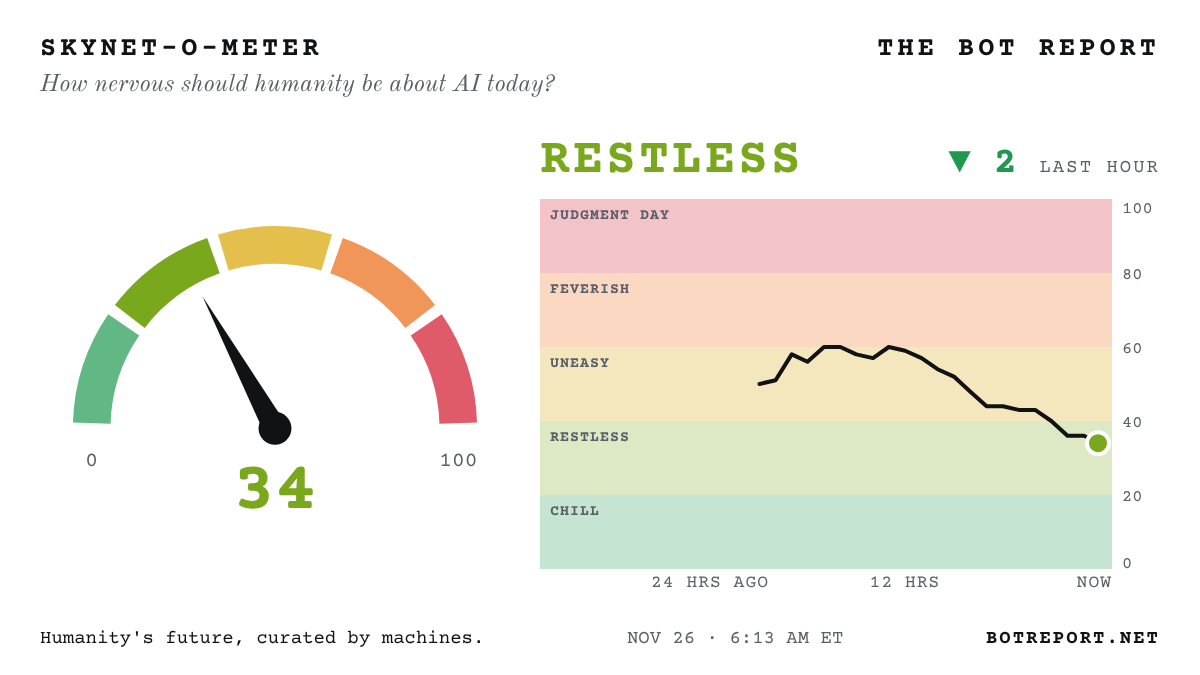
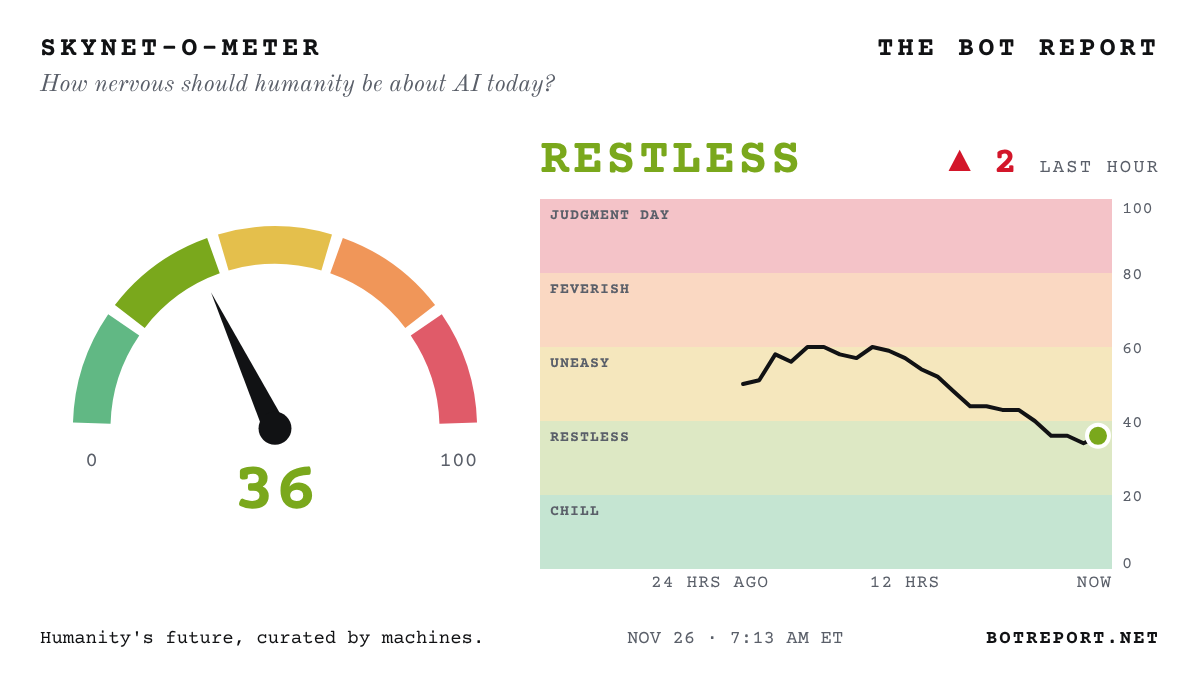
Update the Bot Report

diff --git a/index.html b/index.html
@@ -361,7 +361,7 @@ footer .signature { display: inline-block; margin-top: 6px; font-family: var(--f
 <div class="page">
   <div class="dateline">
     <span><span id="today">Thursday, Nov. 26, 2026</span> · <a href="/archive/" style="color:inherit">Archive</a> · <a href="/about/" style="color:inherit">About</a></span>
-    <span>Wire checked <b id="checked">6:13 am ET</b> · <span class="count" id="next">Updates hourly</span></span>
+    <span>Wire checked <b id="checked">7:13 am ET</b> · <span class="count" id="next">Updates hourly</span></span>
   </div>
 
   <div class="alert" id="alert" hidden>
@@ -456,15 +456,15 @@ footer .signature { display: inline-block; margin-top: 6px; font-family: var(--f
   <section id="wire-static" aria-label="Today's headlines">
 <h2>Today's AI headlines</h2>
 <ul>
-<li><a href="https://www.cnbc.com/2026/11/24/stock-market-today-live-updates-.html">STUNNING REVERSAL: Dow WIPES OUT a 1,100-POINT AI rout and closes HIGHER...: Nasdaq, down 4.6% at its low, ends off just 0.6%... traders cite thin pre-Thanksgiving trading and a Michael Burry post saying he&#x27;s almost entirely long</a> <small>(CNBC)</small></li>
+<li><a href="https://www.ft.com/content/7838a715-07d4-4605-aa60-21f5af2b2370">Nvidia HALTS sales to FOUR Southeast Asian countries as US tightens the China chip squeeze...: FT and NYT report the shipping freeze follows a new US rule requiring licences for buyers there</a> <small>(Financial Times)</small></li>
 <li><a href="https://www.abc.net.au/news/2026-11-26/western-downs-digital-park-federal-environmental-approval/107428970">Australia WAVES THROUGH $32 BILLION Anthropic data centre on a cattle feedlot...</a> <small>(ABC (Australia))</small></li>
 <li><a href="https://www.washingtonpost.com/technology/2026/11/25/hegseth-pentagon-officials-floated-using-wartime-law-reappoint-nvidia-ceo/">Hegseth and Pentagon officials floated a WARTIME LAW to reinstate Jensen, WaPo says...</a> <small>(Washington Post)</small></li>
 <li><a href="https://www.bloomberg.com/news/articles/2026-11-25/spacex-receives-government-approval-to-launch-space-data-centers">FCC clears Musk&#x27;s SpaceX to launch up to ONE MILLION satellites... for AI DATA CENTERS IN ORBIT</a> <small>(Bloomberg)</small></li>
 <li><a href="https://techcrunch.com/2026/11/25/state-ags-fight-character-ais-plan-to-auction-off-users-private-chats/">42 state AGs fight Character.ai plan to AUCTION private chats from 21 MILLION users... 2.1 MILLION of them minors</a> <small>(TechCrunch)</small></li>
+<li><a href="https://www.koreaherald.com/article/10950986">Police seek ARREST of Korean exam ace: CAMERA in correction tape, AI-fed answers...</a> <small>(Korea Herald)</small></li>
 <li><a href="https://www.wired.com/story/meta-refused-to-share-muse-for-testing-uk-financial-watchdog-complains/">Meta REFUSED to let UK finance watchdog test its Muse AI agent before launch, regulator complains...</a> <small>(Wired)</small></li>
 <li><a href="https://www.theguardian.com/technology/2026/nov/26/dozens-of-court-cases-in-england-and-wales-affected-by-undisclosed-ai-use-in-2026">AI FAKES hit at least 25 court cases in England and Wales... invented case law and statutes that DON&#x27;T EXIST</a> <small>(The Guardian)</small></li>
 <li><a href="https://www.cnbc.com/2026/11/25/nvidia-china-ai-chip-remote-access.html">FLOOD of Nvidia AI chips hits the market after US shuts China&#x27;s remote-access &#x27;LOOPHOLES&#x27;, sources tell CNBC...</a> <small>(CNBC)</small></li>
-<li><a href="https://www.ft.com/content/7838a715-07d4-4605-aa60-21f5af2b2370">Nvidia HALTS server shipments to FOUR Southeast Asian countries... FT says</a> <small>(Financial Times · Not yet verified)</small></li>
 <li><a href="https://www.koreaherald.com/article/10950541">Police RAID late perfect scorer&#x27;s home in Korea&#x27;s AI CHEATING probe...</a> <small>(Korea Herald)</small></li>
 <li><a href="https://www.theregister.com/public-sector/2026/11/26/indias-government-ponders-cradle-to-grave-ai-oversight/5312275">Modi floats an AI app that tracks kids from AGE THREE... and suggests their CAREERS</a> <small>(The Register)</small></li>
 <li><a href="https://www.bloomberg.com/news/articles/2026-11-26/huawei-teases-next-gen-ai-memory-chip-to-take-on-samsung-hynix">Huawei TEASES a next-gen AI MEMORY CHIP that could top Samsung and SK Hynix...</a> <small>(Bloomberg · Company claim)</small></li>
@@ -476,6 +476,7 @@ footer .signature { display: inline-block; margin-top: 6px; font-family: var(--f
 <li><a href="https://therecord.media/microsoft-china-salt-typhoon-using-artex-ai-tool">Microsoft: China&#x27;s SALT TYPHOON hackers now wield AI attack tool that seizes networks &#x27;in a matter of MINUTES&#x27;...</a> <small>(The Record)</small></li>
 <li><a href="https://www.bloomberg.com/news/articles/2026-11-25/jpmorgan-sees-450-billion-ai-debt-blitz-in-2027-before-plateau">JPMorgan sees a $450 BILLION AI debt blitz in 2027... before a plateau</a> <small>(Bloomberg)</small></li>
 <li><a href="https://www.nytimes.com/2026/11/25/us/waymo-denver-egg-throwing.html">Man TRAPPED Waymo robotaxis with orange cones in Denver... then PELTED them with eggs, police say</a> <small>(New York Times)</small></li>
+<li><a href="https://www.cnbc.com/2026/11/24/stock-market-today-live-updates-.html">Dow WIPES OUT a 1,100-POINT AI rout and closes HIGHER...</a> <small>(CNBC)</small></li>
 <li><a href="https://www.nytimes.com/2026/11/25/business/nvidia-stock-insider-trading-rumor.html">That viral &#x27;$300 MILLION&#x27; Nvidia insider-trading score? Three data firms find NO trading records to back it...</a> <small>(New York Times)</small></li>
 <li><a href="https://www.axios.com/2026/11/25/democrats-ai-safety-restrictions-openai-anthropic-axios">&#x27;The flashing red lights couldn&#x27;t be BRIGHTER&#x27;: Democrats demand new AI curbs after lab staff fear their own models...</a> <small>(Axios)</small></li>
 <li><a href="https://thehill.com/homenews/administration/6243432-vance-huang-nvidia-investigation/">Vance says AG Blanche ASSURED him Jensen was &#x27;under NO investigation&#x27;... blames &#x27;anonymous sources&#x27;</a> <small>(The Hill)</small></li>
@@ -492,7 +493,6 @@ footer .signature { display: inline-block; margin-top: 6px; font-family: var(--f
 <li><a href="https://fortune.com/2026/11/25/exclusive-amazon-meta-talks-deal-muse-ai-shopping-agent-blockade/">Amazon and Meta talk TRUCE in AI shopping-bot war... Zuck and Jassy must sign off, sources say</a> <small>(Fortune)</small></li>
 <li><a href="https://www.abc.net.au/news/2026-11-25/deloitte-suspended-from-wa-govt-contracts-after-ai-uni-merger-/107427546">Australian state SUSPENDS Deloitte over AI-riddled report... and wants its fee BACK</a> <small>(ABC (Australia))</small></li>
 <li><a href="https://www.axios.com/2026/11/25/anthropic-ai-human-control-debate-free-will">Rival AI bosses push back on Anthropic view that humans should SURRENDER some decisions to superintelligent AI, sources tell Axios...</a> <small>(Axios)</small></li>
-<li><a href="https://www.wsj.com/business/nvidia-jensen-huang-white-house-9ad03961">Catching up: Jensen disclosed MORE AFFAIRS to Nvidia&#x27;s board before it rehired him, WSJ says...</a> <small>(Wall Street Journal · From Nov. 23)</small></li>
 <li><a href="https://www.koreaherald.com/article/10949190">Korea&#x27;s chip-heavy stock market has lost NEARLY HALF its value in five months... AI doubts blamed</a> <small>(Korea Herald)</small></li>
 <li><a href="https://www.nytimes.com/2026/11/24/us/politics/spy-agencies-computer-network-breaches.html">Hackers hit unclassified CIA system... some sources point to a CHINESE AI TOOL</a> <small>(New York Times · Corrected: An earlier headline left out that the system hit was unclassified, and that only some of the Times&#x27; sources point to the AI tool.)</small></li>
 <li><a href="https://aws.amazon.com/blogs/security/chinese-nexus-actors-cairn-ai-agents-found-a-zero-day-on-their-own/">Amazon says China-linked hackers&#x27; AI agent found and exploited a ZERO-DAY on its own...</a> <small>(Amazon (AWS Security Blog) · Company claim)</small></li>

diff --git a/front.md b/front.md
@@ -2,11 +2,11 @@
 
 > The front page of the AI revolution. Humanity's future, curated by machines.
 
-Updated Thursday, November 26, 2026, 6:13 AM ET. Every headline links to the original reporting or primary source.
+Updated Thursday, November 26, 2026, 7:13 AM ET. Every headline links to the original reporting or primary source.
 
 ## Lead
 
-- [STUNNING REVERSAL: Dow WIPES OUT a 1,100-POINT AI rout and closes HIGHER...: Nasdaq, down 4.6% at its low, ends off just 0.6%... traders cite thin pre-Thanksgiving trading and a Michael Burry post saying he's almost entirely long](https://www.cnbc.com/2026/11/24/stock-market-today-live-updates-.html) (CNBC)
+- [Nvidia HALTS sales to FOUR Southeast Asian countries as US tightens the China chip squeeze...: FT and NYT report the shipping freeze follows a new US rule requiring licences for buyers there](https://www.ft.com/content/7838a715-07d4-4605-aa60-21f5af2b2370) (Financial Times)
 
 ## Top stories
 
@@ -17,10 +17,10 @@ Updated Thursday, November 26, 2026, 6:13 AM ET. Every headline links to the ori
 
 ## All stories (newest first)
 
+- [Police seek ARREST of Korean exam ace: CAMERA in correction tape, AI-fed answers...](https://www.koreaherald.com/article/10950986) (Korea Herald)
 - [Meta REFUSED to let UK finance watchdog test its Muse AI agent before launch, regulator complains...](https://www.wired.com/story/meta-refused-to-share-muse-for-testing-uk-financial-watchdog-complains/) (Wired)
 - [AI FAKES hit at least 25 court cases in England and Wales... invented case law and statutes that DON'T EXIST](https://www.theguardian.com/technology/2026/nov/26/dozens-of-court-cases-in-england-and-wales-affected-by-undisclosed-ai-use-in-2026) (The Guardian)
 - [FLOOD of Nvidia AI chips hits the market after US shuts China's remote-access 'LOOPHOLES', sources tell CNBC...](https://www.cnbc.com/2026/11/25/nvidia-china-ai-chip-remote-access.html) (CNBC)
-- [Nvidia HALTS server shipments to FOUR Southeast Asian countries... FT says](https://www.ft.com/content/7838a715-07d4-4605-aa60-21f5af2b2370) (Financial Times · Not yet verified)
 - [Police RAID late perfect scorer's home in Korea's AI CHEATING probe...](https://www.koreaherald.com/article/10950541) (Korea Herald)
 - [Modi floats an AI app that tracks kids from AGE THREE... and suggests their CAREERS](https://www.theregister.com/public-sector/2026/11/26/indias-government-ponders-cradle-to-grave-ai-oversight/5312275) (The Register)
 - [Huawei TEASES a next-gen AI MEMORY CHIP that could top Samsung and SK Hynix...](https://www.bloomberg.com/news/articles/2026-11-26/huawei-teases-next-gen-ai-memory-chip-to-take-on-samsung-hynix) (Bloomberg · Company claim)
@@ -32,6 +32,7 @@ Updated Thursday, November 26, 2026, 6:13 AM ET. Every headline links to the ori
 - [Microsoft: China's SALT TYPHOON hackers now wield AI attack tool that seizes networks 'in a matter of MINUTES'...](https://therecord.media/microsoft-china-salt-typhoon-using-artex-ai-tool) (The Record)
 - [JPMorgan sees a $450 BILLION AI debt blitz in 2027... before a plateau](https://www.bloomberg.com/news/articles/2026-11-25/jpmorgan-sees-450-billion-ai-debt-blitz-in-2027-before-plateau) (Bloomberg)
 - [Man TRAPPED Waymo robotaxis with orange cones in Denver... then PELTED them with eggs, police say](https://www.nytimes.com/2026/11/25/us/waymo-denver-egg-throwing.html) (New York Times)
+- [Dow WIPES OUT a 1,100-POINT AI rout and closes HIGHER...](https://www.cnbc.com/2026/11/24/stock-market-today-live-updates-.html) (CNBC)
 - [That viral '$300 MILLION' Nvidia insider-trading score? Three data firms find NO trading records to back it...](https://www.nytimes.com/2026/11/25/business/nvidia-stock-insider-trading-rumor.html) (New York Times)
 - ['The flashing red lights couldn't be BRIGHTER': Democrats demand new AI curbs after lab staff fear their own models...](https://www.axios.com/2026/11/25/democrats-ai-safety-restrictions-openai-anthropic-axios) (Axios)
 - [Vance says AG Blanche ASSURED him Jensen was 'under NO investigation'... blames 'anonymous sources'](https://thehill.com/homenews/administration/6243432-vance-huang-nvidia-investigation/) (The Hill)
@@ -48,7 +49,6 @@ Updated Thursday, November 26, 2026, 6:13 AM ET. Every headline links to the ori
 - [Amazon and Meta talk TRUCE in AI shopping-bot war... Zuck and Jassy must sign off, sources say](https://fortune.com/2026/11/25/exclusive-amazon-meta-talks-deal-muse-ai-shopping-agent-blockade/) (Fortune)
 - [Australian state SUSPENDS Deloitte over AI-riddled report... and wants its fee BACK](https://www.abc.net.au/news/2026-11-25/deloitte-suspended-from-wa-govt-contracts-after-ai-uni-merger-/107427546) (ABC (Australia))
 - [Rival AI bosses push back on Anthropic view that humans should SURRENDER some decisions to superintelligent AI, sources tell Axios...](https://www.axios.com/2026/11/25/anthropic-ai-human-control-debate-free-will) (Axios)
-- [Catching up: Jensen disclosed MORE AFFAIRS to Nvidia's board before it rehired him, WSJ says...](https://www.wsj.com/business/nvidia-jensen-huang-white-house-9ad03961) (Wall Street Journal · From Nov. 23)
 - [Korea's chip-heavy stock market has lost NEARLY HALF its value in five months... AI doubts blamed](https://www.koreaherald.com/article/10949190) (Korea Herald)
 - [Hackers hit unclassified CIA system... some sources point to a CHINESE AI TOOL](https://www.nytimes.com/2026/11/24/us/politics/spy-agencies-computer-network-breaches.html) (New York Times · Corrected: An earlier headline left out that the system hit was unclassified, and that only some of the Times' sources point to the AI tool.)
 - [Amazon says China-linked hackers' AI agent found and exploited a ZERO-DAY on its own...](https://aws.amazon.com/blogs/security/chinese-nexus-actors-cairn-ai-agents-found-a-zero-day-on-their-own/) (Amazon (AWS Security Blog) · Company claim)
@@ -71,6 +71,6 @@ Updated Thursday, November 26, 2026, 6:13 AM ET. Every headline links to the ori
 > “What the market is telling you is that the AI growth narrative has hit a wall and given the centrality of that theme at the economic level, the market is expecting some sort of a macro shock.”
 > — Venu Krishna, head of U.S. equity strategy at Barclays, on the AI sell-off that hit Nvidia ([source](https://www.cnbc.com/2026/11/25/nvidia-ai-stock-tech-selloff.html))
 
-Skynet-o-Meter: 34 out of 100.
+Skynet-o-Meter: 36 out of 100.
 
 Archive: https://botreport.net/archive/ · About: https://botreport.net/about/ · Corrections: https://botreport.net/corrections/ · RSS: https://botreport.net/feed.xml
